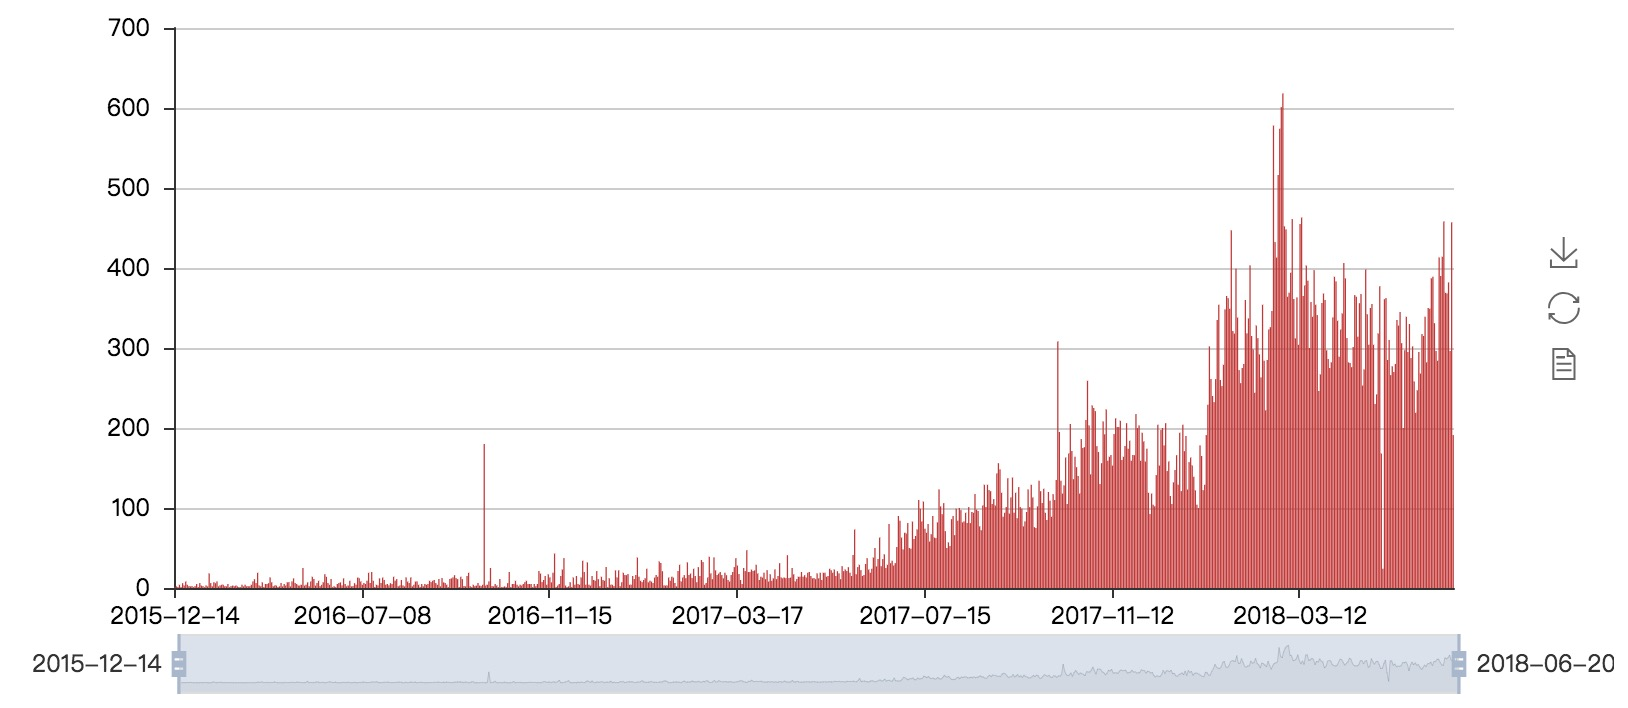
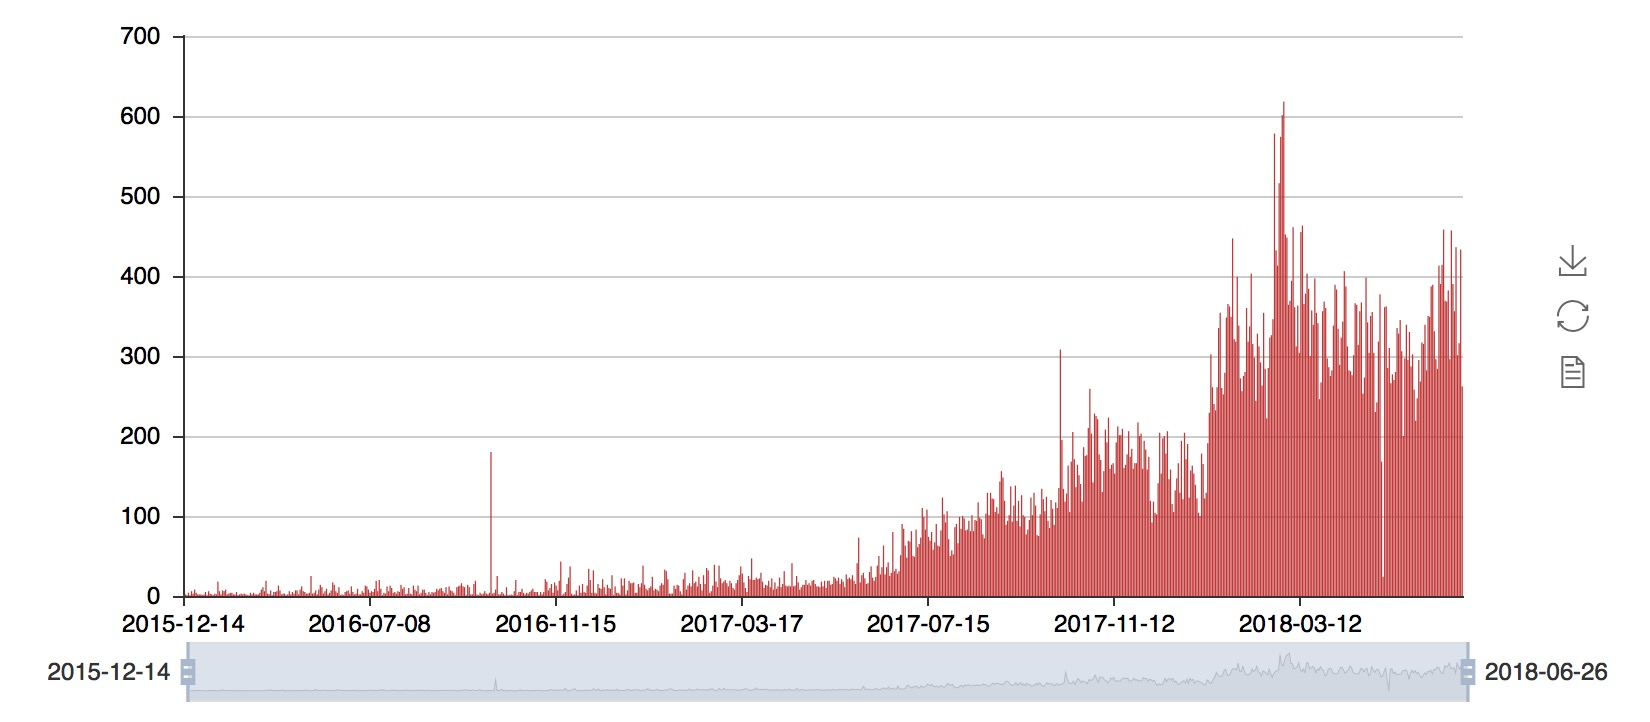
update erc20-creation.jpeg

diff --git a/README.md b/README.md
@@ -26,7 +26,7 @@ Read the docs in Chinese: <https://github.com/sec-bit/awesome-buggy-erc20-tokens
 
 ## Problems in ERC20 Token Contracts
 
-[ERC20 standard](https://github.com/ethereum/EIPs/blob/master/EIPS/eip-20.md) is one of the most popular Ethereum token standards [[1]](https://github.com/ethereum/EIPs/blob/master/EIPS/eip-20.md). As of June 20th, 2018, more than 90,000 ERC20 token smart contracts have been deployed according to [statistics from Etherscan](https://etherscan.io/tokens). Here is a daily trend chart of ERC20 contracts created according to our statistics:
+[ERC20 standard](https://github.com/ethereum/EIPs/blob/master/EIPS/eip-20.md) is one of the most popular Ethereum token standards [[1]](https://github.com/ethereum/EIPs/blob/master/EIPS/eip-20.md). As of June 26th, 2018, more than 95,000 ERC20 token smart contracts have been deployed according to [statistics from Etherscan](https://etherscan.io/tokens). Here is a daily trend chart of ERC20 contracts created according to our statistics:
 
 ![ERC20 Contracts Created on main Ethereum network every day](img/erc20-creation.jpeg)
 

diff --git a/README_CN.md b/README_CN.md
@@ -34,7 +34,7 @@
 
 ## ERC20 Token 面临的主要问题
 
-以太坊 ERC20 Token 标准自 2015 年 11 月 19 日诞生以来 [[1]](https://github.com/ethereum/EIPs/blob/master/EIPS/eip-20.md)，为智能合约、以太坊生态以及区块链应用的发展产生了巨大的贡献。据 Etherscan 网站[数据显示](https://etherscan.io/tokens)，截止 2018 年 6 月 20 日，以太坊主网上 ERC20 Token 数量已超过 90000。下图是我们统计的 ERC20 每日创建数量趋势图。
+以太坊 ERC20 Token 标准自 2015 年 11 月 19 日诞生以来 [[1]](https://github.com/ethereum/EIPs/blob/master/EIPS/eip-20.md)，为智能合约、以太坊生态以及区块链应用的发展产生了巨大的贡献。据 Etherscan 网站[数据显示](https://etherscan.io/tokens)，截止 2018 年 6 月 26 日，以太坊主网上 ERC20 Token 数量已超过 95000。下图是我们统计的 ERC20 每日创建数量趋势图。
 
 ![以太坊主网上 ERC20 合约每日创建数量](img/erc20-creation.jpeg)
 
